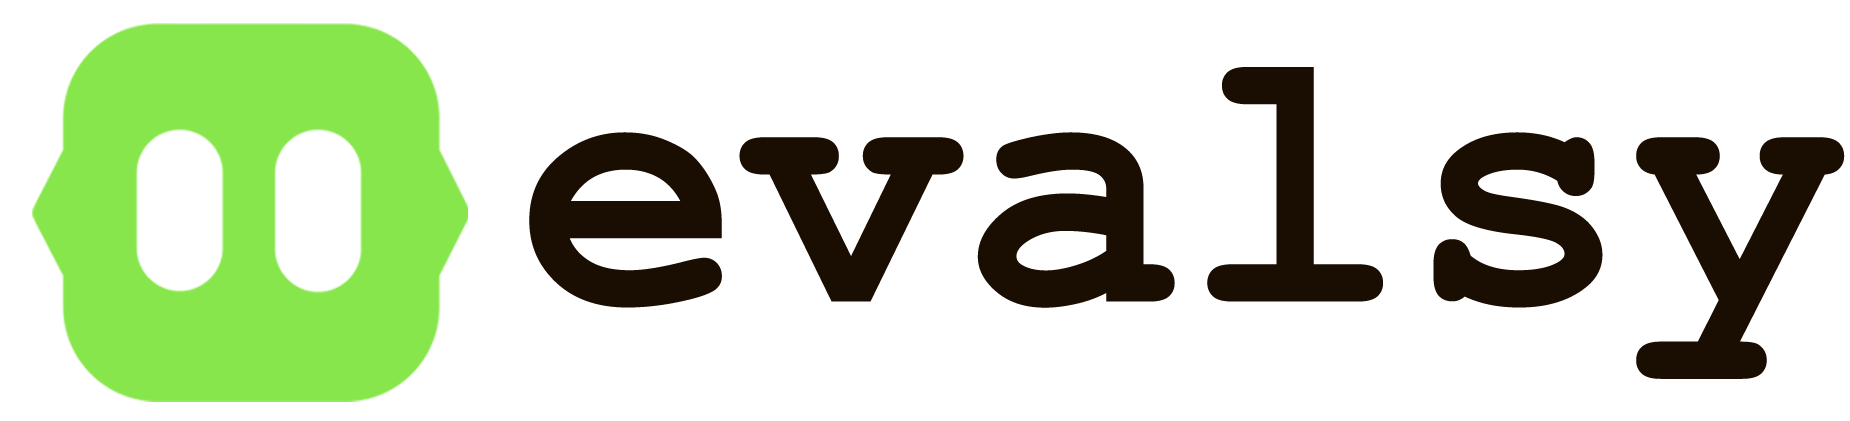
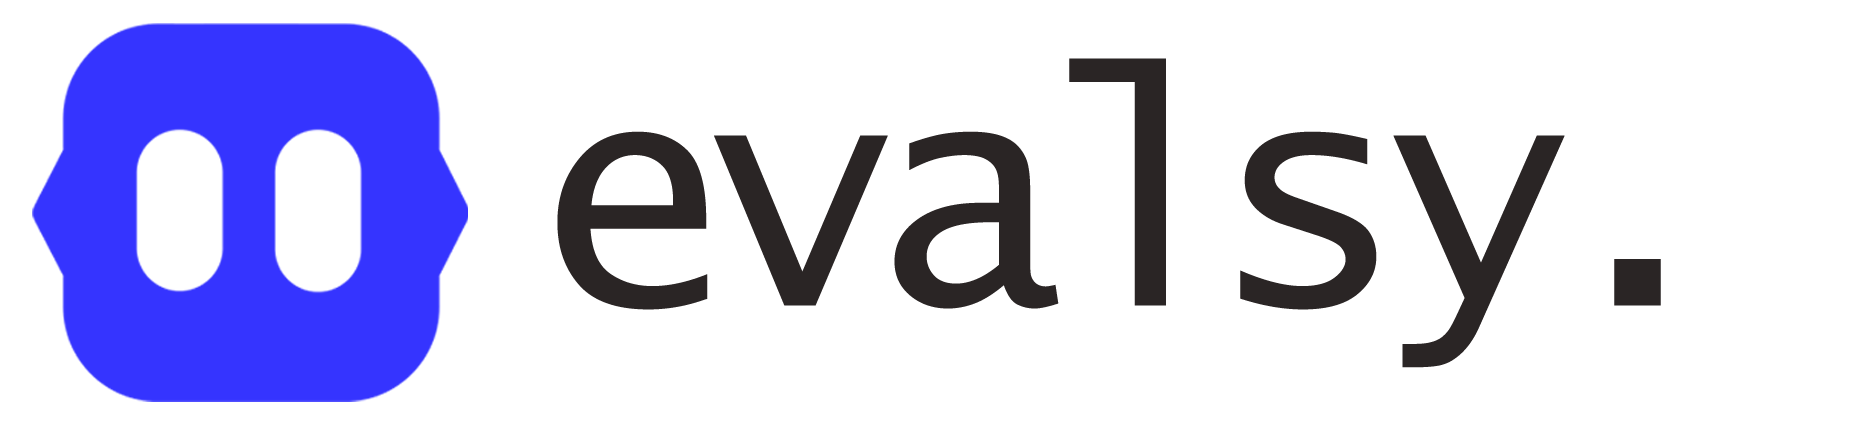
fix: Update footer contact information and office locations style: Adjust input field radius for consistency in RequestDemo and RequestDemoHero components style: Modify card border radius in OptimizationComparison for improved aesthetics chore: Update final-light image asset

diff --git a/app/start/Footer.tsx b/app/start/Footer.tsx
@@ -28,19 +28,19 @@ export function Footer() {
             <Link href="/" className="flex items-center space-x-2">
               <LogoDarkWhite />
             </Link>
-            <p className="text-white text-sm leading-relaxed">We create financial experiences for students and young adults by using innovative technology and transparent practices.</p>
+            <p className="text-white text-sm leading-relaxed">Evalsy - AI-Powered Intelligent Interview Automation.</p>
           </div>
 
           {/* Sydney Office */}
           <div className="space-y-4">
-            <h4 className="text-lg font-semibold text-white">Sydney</h4>
+            <h4 className="text-lg font-semibold text-white">Sri Lanka</h4>
             <div className="space-y-3">
               <div className="flex items-center space-x-3">
                 <div className="p-1  rounded-full border border-white">
                   <Mail className="h-3 w-3 text-white" />
                 </div>
-                <Link href="mailto:team@sparkcard.com" className="text-white hover:text-white text-sm">
-                  team@sparkcard.com
+                <Link href="mailto:team@evalsy.com" className="text-white hover:text-white text-sm">
+                  team@evalsy.com
                 </Link>
               </div>
               <div className="flex items-center space-x-3">
@@ -48,7 +48,7 @@ export function Footer() {
                   <Phone className="h-3 w-3 text-white" />
                 </div>
                 <Link href="tel:+61234567890" className="text-white hover:text-white text-sm">
-                  +61 2 3456 7890
+                  +94 7790 5939 4
                 </Link>
               </div>
               <div className="flex items-start space-x-3">
@@ -65,14 +65,14 @@ export function Footer() {
 
           {/* Melbourne Office */}
           <div className="space-y-4">
-            <h4 className="text-lg font-semibold text-white">Melbourne</h4>
+            <h4 className="text-lg font-semibold text-white">Singapore</h4>
             <div className="space-y-3">
               <div className="flex items-center space-x-3">
                 <div className="p-1  rounded-full border border-white">
                   <Mail className="h-3 w-3 text-white" />
                 </div>
-                <Link href="mailto:team@sparkcard.com" className="text-white hover:text-white text-sm">
-                  team@sparkcard.com
+                <Link href="mailto:team@evalsy.com" className="text-white hover:text-white text-sm">
+                  team@evalsy.com
                 </Link>
               </div>
               <div className="flex items-center space-x-3">
@@ -100,8 +100,13 @@ export function Footer() {
             <h4 className="text-lg font-semibold text-white">Company</h4>
             <ul className="space-y-2">
               <li>
-                <Link className="text-white hover:text-white text-sm transition-colors hover:underline" href="#features">
-                  Home
+                <Link className="text-white hover:text-white text-sm transition-colors hover:underline" href="#how-it-work">
+                  How It Works
+                </Link>
+              </li>
+              <li>
+                <Link className="text-white hover:text-white text-sm transition-colors hover:underline" href="#cost-analysis">
+                  Cost Analysis
                 </Link>
               </li>
               <li>
@@ -110,23 +115,13 @@ export function Footer() {
                 </Link>
               </li>
               <li>
-                <Link className="text-white hover:text-white text-sm transition-colors hover:underline" href="#cta">
-                  Demo
-                </Link>
-              </li>
-              <li>
                 <Link className="text-white hover:text-white text-sm transition-colors hover:underline" href="#faq">
                   FAQ
                 </Link>
               </li>
               <li>
-                <Link className="text-white hover:text-white text-sm transition-colors hover:underline" href="/about">
-                  About Us
-                </Link>
-              </li>
-              <li>
-                <Link className="text-white hover:text-white text-sm transition-colors hover:underline" href="/careers">
-                  Careers
+                <Link className="text-white hover:text-white text-sm transition-colors hover:underline" href="#testimonials">
+                  Testimonials
                 </Link>
               </li>
             </ul>
@@ -135,15 +130,15 @@ export function Footer() {
           {/* Social Media */}
           <div className="space-y-4">
             <h4 className="text-lg font-semibold text-white">Follow us on social media</h4>
-            <p className="text-white text-sm leading-relaxed">Stay connected and updated on our latest features, financial tips, and community insights.</p>
+            <p className="text-white text-sm leading-relaxed">Stay connected and updated on our latest features and community insights.</p>
             <div className="flex space-x-4">
-              <Link href="https://instagram.com/sparkcard" className="p-2   border-2 border-white rounded-full hover: transition-colors">
+              <Link href="https://instagram.com/evalsy" className="p-2   border-2 border-white rounded-full hover: transition-colors">
                 <Instagram className="h-5 w-5 text-white" />
               </Link>
-              <Link href="https://facebook.com/sparkcard" className="p-2   border-2 border-white rounded-full hover: transition-colors">
+              <Link href="https://facebook.com/evalsy" className="p-2   border-2 border-white rounded-full hover: transition-colors">
                 <Facebook className="h-5 w-5 text-white" />
               </Link>
-              <Link href="https://twitter.com/sparkcard" className="p-2   border-2 border-white rounded-full hover: transition-colors">
+              <Link href="https://twitter.com/evalsy" className="p-2   border-2 border-white rounded-full hover: transition-colors">
                 <Twitter className="h-5 w-5 text-white" />
               </Link>
             </div>
@@ -153,7 +148,7 @@ export function Footer() {
         {/* Bottom Section */}
         <div className="mt-12 pt-8 border-t-2 border-white">
           <div className="flex flex-col md:flex-row justify-between items-center space-y-4 md:space-y-0">
-            <p className="text-sm text-white">© 2023 SparkCard. All rights reserved.</p>
+            <p className="text-sm text-white">© 2025 Evalsy. All rights reserved.</p>
             <div className="flex space-x-6">
               <Link className="text-sm text-white hover:text-white transition-colors hover:underline" href="/privacy">
                 Privacy Policy

diff --git a/app/start/RequestDemoHero.tsx b/app/start/RequestDemoHero.tsx
@@ -62,7 +62,7 @@ export default function RequestDemoHero() {
             size="sm"
             isRequired
             variant="bordered"
-            radius="sm"
+            radius="lg"
             classNames={{
               inputWrapper: 'bg-white text-black border-slate-600',
               input: 'text-black placeholder:text-slate-500',
@@ -79,7 +79,7 @@ export default function RequestDemoHero() {
               labelPlacement="inside"
               isRequired
               variant="bordered"
-              radius="sm"
+              radius="lg"
               classNames={{
                 inputWrapper: 'bg-white text-black border-slate-600',
                 input: 'text-black placeholder:text-slate-500',
@@ -95,7 +95,7 @@ export default function RequestDemoHero() {
               isRequired
               type="tel"
               variant="bordered"
-              radius="sm"
+              radius="lg"
               classNames={{
                 inputWrapper: 'bg-white text-black border-slate-600',
                 input: 'text-black placeholder:text-slate-500',
@@ -108,9 +108,8 @@ export default function RequestDemoHero() {
           <Input
             name="company"
             label="Company Name"
-            placeholder="Your company name"
             variant="bordered"
-            radius="sm"
+            radius="lg"
             classNames={{
               inputWrapper: 'bg-white text-black border-slate-600',
               input: 'text-black placeholder:text-slate-500',

diff --git a/app/start/RequestDemo.tsx b/app/start/RequestDemo.tsx
@@ -43,7 +43,7 @@ export default function RequestDemo() {
   };
 
   return (
-    <section id="shedule-demo" className="  bg-darkbase  flex items-center justify-center  py-20 sm:py-32">
+    <section id="shedule-demo" className="  bg-darkbase  flex items-center justify-center p-4 py-20 sm:py-32">
       <div className="w-full max-w-6xl">
         <div className="grid grid-cols-1 lg:grid-cols-2 gap-8 items-center">
           <div className="hidden lg:block relative h-full rounded-2xl overflow-hidden">
@@ -120,7 +120,6 @@ export default function RequestDemo() {
                   <Input
                     name="company"
                     label="Company Name"
-                    placeholder="Your company name"
                     variant="bordered"
                     radius="sm"
                     classNames={{

diff --git a/app/start/optimize-section.tsx b/app/start/optimize-section.tsx
@@ -114,7 +114,7 @@ export function OptimizationComparison() {
           {/* Steps */}
 
           {/* Results Comparison */}
-          <Card className="bg-white border-2 border-black rounded-xl mb-6">
+          <Card className="bg-white border-2 border-black rounded-3xl mb-6">
             <CardBody className="p-6 md:p-8">
               <div className="grid grid-cols-1 md:grid-cols-3 gap-6 mb-10 relative">
                 {currentData.steps.map((step, index) => (
